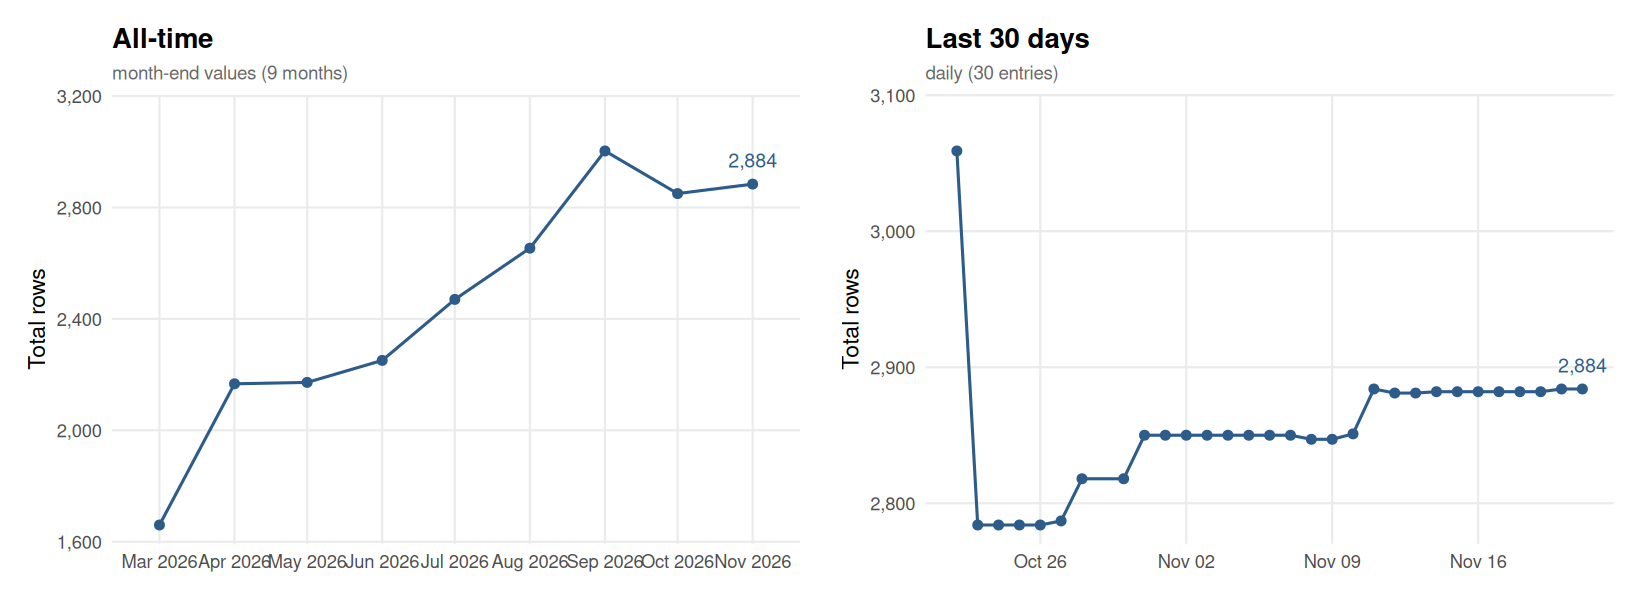
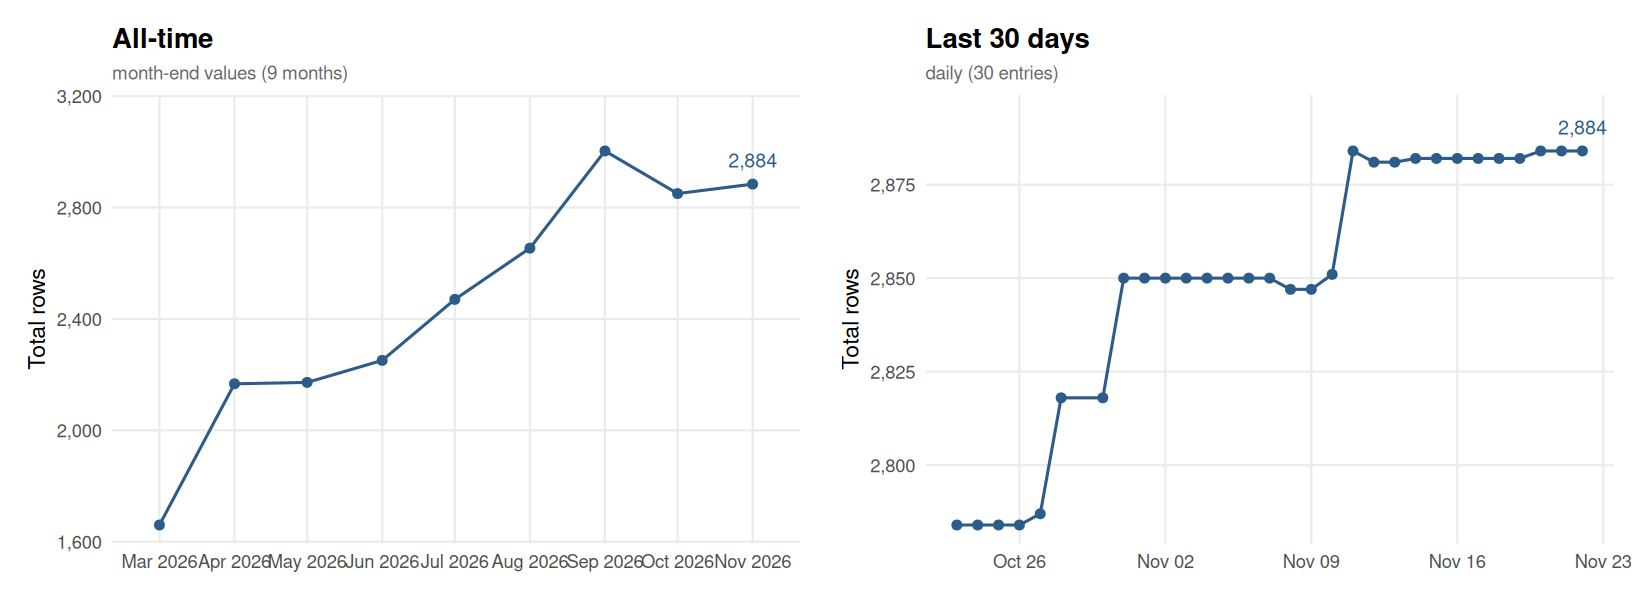
Sync flora.csv from flora-validation [automated]

diff --git a/README.md b/README.md
@@ -445,14 +445,15 @@ For API issues:
 This chart is automatically updated after each daily sync from flora-validation, showing the size of `output/flora.csv` over time.
 
 <!-- FLORA_UPDATE_LOG_START -->
-> **Latest (2026-11-21):** Total = 2,884 | Replications = 2,659 | Reproductions = 225
+> **Latest (2026-11-22):** Total = 2,884 | Replications = 2,659 | Reproductions = 225
 
 ![FLoRA dataset size over time](output/flora_history.png)
 
-<details><summary>Full history (239 entries)</summary>
+<details><summary>Full history (240 entries)</summary>
 
 | Date | Total | Replications | Reproductions |
 |------|------:|-------------:|--------------:|
+| 2026-11-22 | 2884 | 2659 | 225 |
 | 2026-11-21 | 2884 | 2659 | 225 |
 | 2026-11-20 | 2884 | 2659 | 225 |
 | 2026-11-19 | 2882 | 2657 | 225 |
